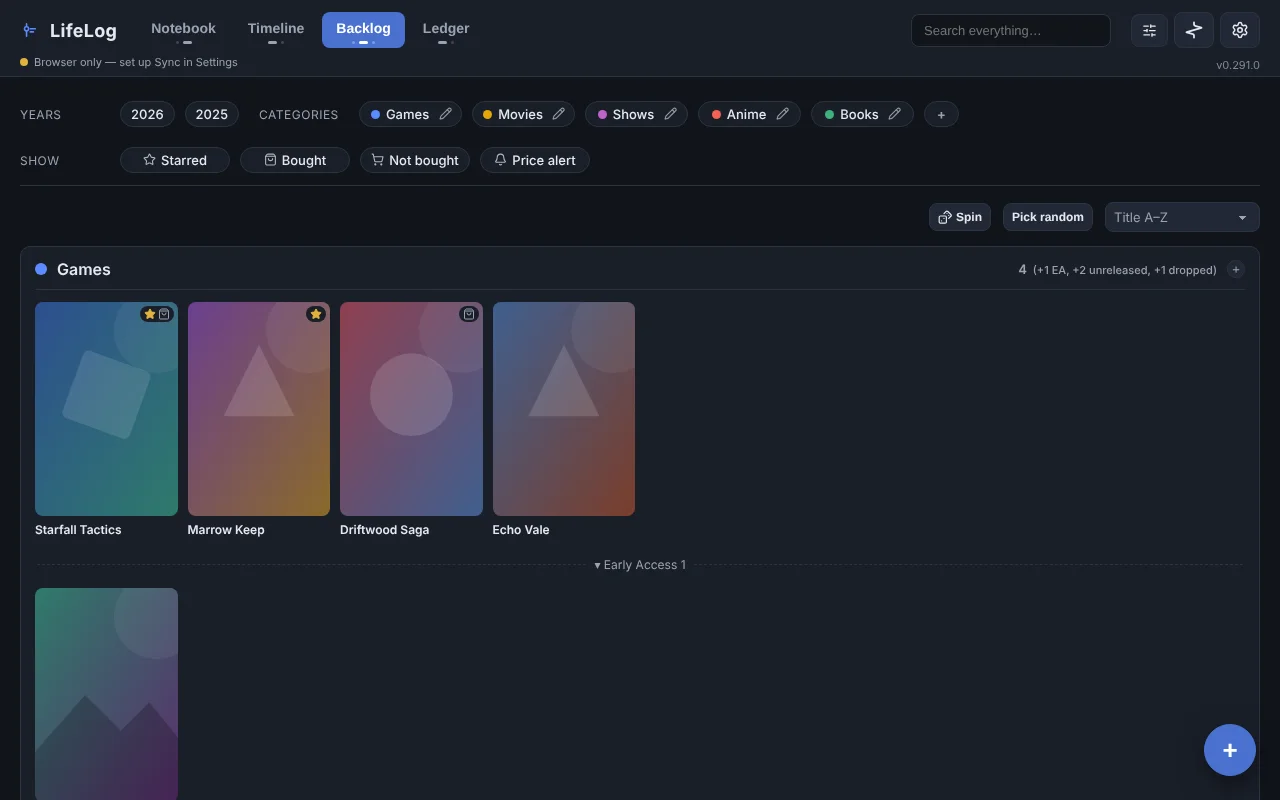
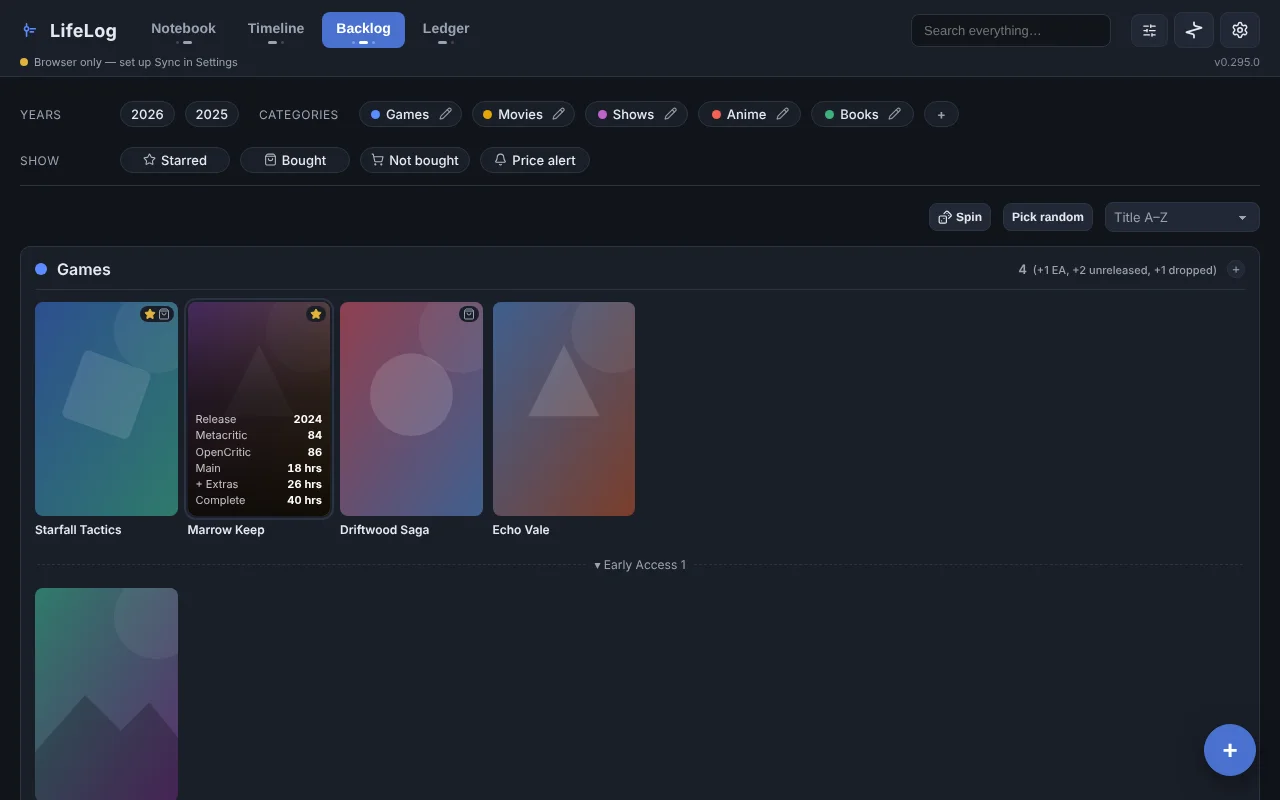
0.295.0: cover hover details, search covers and status, Open on suggestions you already have
On a computer, hovering a cover in the Covers layout shows its release,
scores, How Long to Beat times or length, and the price if not bought.
Search rows for Timeline and Backlog carry their cover, status tags and
starred/bought icons. Add entry and Add to backlog offer Open on a
suggestion you already have.

Claude-Session: https://claude.ai/code/session_01CFeKrmm4BBd86JVxtxF91o

Changed region(s): [[0.125, 0.375, 0.2812, 0.6562], [0.9375, 0.0625, 1.0, 0.0938]]

diff --git a/index.html b/index.html
@@ -5,7 +5,7 @@
   <meta http-equiv="Content-Security-Policy" content="default-src 'self'; script-src 'self'; style-src 'self'; img-src 'self' data: blob: https:; connect-src 'self' https: http://localhost:* http://127.0.0.1:*; font-src 'self'; object-src 'none'; frame-src 'none'; base-uri 'self'; form-action 'self'; manifest-src 'self'; worker-src 'self'" />
   <meta name="viewport" content="width=device-width, initial-scale=1.0" />
   <title>LifeLog</title>
-  <link rel="stylesheet" href="src/styles.css?v=0.294.0" />
+  <link rel="stylesheet" href="src/styles.css?v=0.295.0" />
   <link rel="manifest" href="manifest.json" />
   <meta name="theme-color" content="#11141a" />
   <link rel="icon" href="icon.svg" type="image/svg+xml" />
@@ -2310,38 +2310,38 @@
     </div>
   </div>
 
-  <script defer src="src/errlog.js?v=0.294.0"></script>
-  <script defer src="src/headless.js?v=0.294.0"></script>
-  <script defer src="src/platform.js?v=0.294.0"></script>
-  <script defer src="src/icons.js?v=0.294.0"></script>
-  <script defer src="src/jobs.js?v=0.294.0"></script>
-  <script defer src="src/reconcile.js?v=0.294.0"></script>
-  <script defer src="src/qr.js?v=0.294.0"></script>
-  <script defer src="src/media.js?v=0.294.0"></script>
-  <script defer src="src/merge.js?v=0.294.0"></script>
-  <script defer src="src/storage.js?v=0.294.0"></script>
-  <script defer src="src/finance.js?v=0.294.0"></script>
-  <script defer src="src/settings.js?v=0.294.0"></script>
-  <script defer src="src/wheel.js?v=0.294.0"></script>
-  <script defer src="src/backlog.js?v=0.294.0"></script>
-  <script defer src="src/journal.js?v=0.294.0"></script>
-  <script defer src="src/markdown.js?v=0.294.0"></script>
-  <script defer src="src/notes.js?v=0.294.0"></script>
-  <script defer src="src/docimport.js?v=0.294.0"></script>
-  <script defer src="src/io.js?v=0.294.0"></script>
-  <script defer src="src/sync.js?v=0.294.0"></script>
-  <script defer src="src/habits.js?v=0.294.0"></script>
-  <script defer src="src/vendor/rough.js?v=0.294.0"></script>
-  <script defer src="src/boards.js?v=0.294.0"></script>
-  <script defer src="src/travel.js?v=0.294.0"></script>
-  <script defer src="src/recap.js?v=0.294.0"></script>
-  <script defer src="src/reminders.js?v=0.294.0"></script>
-  <script defer src="src/alerts.js?v=0.294.0"></script>
-  <script defer src="src/widgets.js?v=0.294.0"></script>
-  <script defer src="src/share.js?v=0.294.0"></script>
-  <script defer src="src/search.js?v=0.294.0"></script>
-  <script defer src="src/letterboxd.js?v=0.294.0"></script>
-  <script defer src="src/payments.js?v=0.294.0"></script>
-  <script defer src="src/app.js?v=0.294.0"></script>
+  <script defer src="src/errlog.js?v=0.295.0"></script>
+  <script defer src="src/headless.js?v=0.295.0"></script>
+  <script defer src="src/platform.js?v=0.295.0"></script>
+  <script defer src="src/icons.js?v=0.295.0"></script>
+  <script defer src="src/jobs.js?v=0.295.0"></script>
+  <script defer src="src/reconcile.js?v=0.295.0"></script>
+  <script defer src="src/qr.js?v=0.295.0"></script>
+  <script defer src="src/media.js?v=0.295.0"></script>
+  <script defer src="src/merge.js?v=0.295.0"></script>
+  <script defer src="src/storage.js?v=0.295.0"></script>
+  <script defer src="src/finance.js?v=0.295.0"></script>
+  <script defer src="src/settings.js?v=0.295.0"></script>
+  <script defer src="src/wheel.js?v=0.295.0"></script>
+  <script defer src="src/backlog.js?v=0.295.0"></script>
+  <script defer src="src/journal.js?v=0.295.0"></script>
+  <script defer src="src/markdown.js?v=0.295.0"></script>
+  <script defer src="src/notes.js?v=0.295.0"></script>
+  <script defer src="src/docimport.js?v=0.295.0"></script>
+  <script defer src="src/io.js?v=0.295.0"></script>
+  <script defer src="src/sync.js?v=0.295.0"></script>
+  <script defer src="src/habits.js?v=0.295.0"></script>
+  <script defer src="src/vendor/rough.js?v=0.295.0"></script>
+  <script defer src="src/boards.js?v=0.295.0"></script>
+  <script defer src="src/travel.js?v=0.295.0"></script>
+  <script defer src="src/recap.js?v=0.295.0"></script>
+  <script defer src="src/reminders.js?v=0.295.0"></script>
+  <script defer src="src/alerts.js?v=0.295.0"></script>
+  <script defer src="src/widgets.js?v=0.295.0"></script>
+  <script defer src="src/share.js?v=0.295.0"></script>
+  <script defer src="src/search.js?v=0.295.0"></script>
+  <script defer src="src/letterboxd.js?v=0.295.0"></script>
+  <script defer src="src/payments.js?v=0.295.0"></script>
+  <script defer src="src/app.js?v=0.295.0"></script>
 </body>
 </html>

diff --git a/tools/readme-shots.js b/tools/readme-shots.js
@@ -103,7 +103,7 @@ function buildData() {
   });
   const backlog = [
     item("Starfall Tactics", "Games", { priority: 1, summary: "A turn-based campaign across a collapsing star system: hire a crew, hold the line, and choose which worlds to save.", notes: "Friends say the second act is the best part.", bought: true, length: "35 hrs", externalRating: "88 Metacritic", genres: ["Strategy", "RPG"], releaseDate: "2025-03-14", releasePrecision: "day", releaseStatus: "released" }),
-    item("Marrow Keep", "Games", { priority: 1, length: "18 hrs", externalRating: "84 Metacritic", releaseDate: "2024-11-02", releasePrecision: "day", releaseStatus: "released" }),
+    item("Marrow Keep", "Games", { priority: 1, length: "18 hrs", externalRating: "84 Metacritic", hltb: { story: 1080, extras: 1560, complete: 2400 }, reviews: { opencritic: { score: 86 }, metauser: { score: 79 } }, releaseDate: "2024-11-02", releasePrecision: "day", releaseStatus: "released" }),
     item("Driftwood Saga", "Games", { bought: true, length: "60 hrs", releaseDate: "2023-06-20", releasePrecision: "day", releaseStatus: "released" }),
     item("Cobalt Run", "Games", { earlyAccess: true, length: "12 hrs", releaseDate: "2025-08-01", releasePrecision: "day", releaseStatus: "released" }),
     item("Lantern Hollow II", "Games", { releaseDate: soon(9), releasePrecision: "day", releaseStatus: "upcoming" }),
@@ -249,7 +249,9 @@ const SHOTS = [
   { name: "timeline-calendar", ui: { view: "timeline", timelineMode: "entries" }, visual: { timelineLayout: "calendar" } },
   { name: "stats", ui: { view: "timeline", timelineMode: "stats" } },
   { name: "backlog", ui: { view: "backlog", backlogMode: "entries" } },
-  { name: "backlog-covers", ui: { view: "backlog", backlogMode: "entries" }, visual: { backlogLayout: "covers" } },
+  // A computer's shot holds the pointer over a cover to show its details.
+  { name: "backlog-covers", ui: { view: "backlog", backlogMode: "entries" }, visual: { backlogLayout: "covers" },
+    go: async (page, tag) => { if (tag === "desktop") await page.hover('.bl-tile:has-text("Marrow Keep") .bl-tile-art'); } },
   { name: "next-releases", ui: { view: "backlog", backlogMode: "upcoming" }, visual: { outTodaySheet: "hide" } },
   { name: "item-sheet", ui: { view: "backlog", backlogMode: "entries" },
     noScroll: true, go: async (page) => { await page.click('.backlog-item-rich:has-text("Starfall Tactics") .bl-body'); } },

diff --git a/src/app.js b/src/app.js
@@ -164,7 +164,7 @@
   // hideWidgets keeps notes and to-dos out of the widgets while locked.
   const DEFAULT_PRIVACY = { enabled: false, pinHash: null, pinSalt: null, pinKdf: null, credentialId: null, graceMinutes: 0, lastUnlockAt: 0,
     relockMinutes: 5, fails: 0, lockedUntil: 0, bioOnOpen: true, privacyScreen: false, hideWidgets: false };
-  const APP_VERSION = "0.294.0"; // bump with each shipped change so it's visible in Settings
+  const APP_VERSION = "0.295.0"; // bump with each shipped change so it's visible in Settings
 
   const CATEGORY_PALETTE = ["#e23b3b", "#e2723b", "#e2b23b", "#9fe23b", "#3be25a", "#3bb2e2", "#5b8cff", "#723be2", "#b23be2", "#e23b72", "#7a8a99"];
 

diff --git a/sw.js b/sw.js
@@ -12,7 +12,7 @@
 // touched — intercepting those and falling back to index.html on failure
 // previously turned a real network/CORS error into a fake 200 OK full of HTML,
 // masking the actual failure from the app's own error handling.
-const CACHE = "lifelog-v251";
+const CACHE = "lifelog-v252";
 // Note: lifelog.json is intentionally NOT precached — it isn't deployed (your
 // data is private). The app fetches it at runtime with a graceful fallback.
 const ASSETS = [

diff --git a/DONE.md b/DONE.md
@@ -19,7 +19,7 @@ Every release that adds a feature adds its line here in the same commit.
 - Reorder tabs and modes, and choose the mode a tab opens on (0.188.0)
 - Remembers the open tab and scroll position across reloads (0.9.4)
 - The + menu adds anything from any tab (0.229.0)
-- One search across everything, with the tab's own filter kept (0.251.0); In progress is its own group (0.281.0)
+- One search across everything, with the tab's own filter kept (0.251.0); In progress is its own group (0.281.0); Timeline and Backlog results show their cover, status tags, and starred/bought icons (0.295.0)
 - Keyboard shortcuts: N to add, number keys for tabs, Shift+number for a second mode, / to search, ? for the list (0.86.0, 0.127.0, 0.188.0)
 - Lists update in place, move instead of jumping, and rows fade in and out (0.129.0 to 0.139.0)
 - Sheets fade and rise in, swipe down to close, and keep focus where it was (0.209.0, 0.222.0, 0.223.0)
@@ -79,6 +79,8 @@ Every release that adds a feature adds its line here in the same commit.
 - Show filter: Starred, Bought, Not bought, Price alert, stacking (0.285.0, 0.286.0)
 - Pick random and Spin, scoped to the filters, with Bought only (0.82.0, 0.105.0, 0.110.0)
 - Covers layout under View, in every mode: cover art with marks for starred, bought and price alert (0.289.0, 0.290.0)
+- Hover a cover on a computer for its release, scores, How Long to Beat times or length, and price if not bought (0.295.0)
+- Open on a title suggestion you already have, from the Add sheets, instead of adding a second copy (0.295.0)
 - How long an item has sat there (0.82.0)
 - Game descriptions, Steam's own for Steam games (0.101.0)
 - GG.deals retail price on Steam games (0.18.0, 0.67.0)

diff --git a/README.md b/README.md
@@ -79,6 +79,8 @@ An entry has a rating, notes, cover art, genres, a length and when you
 started it. With big cover art, the category is a label on the cover and a
 book's author sits under the title. What you're in the middle of sits in the
 In progress card at the top; ✓ there logs it with the months it took.
+Typing a title you already have, in Add entry or Add to backlog, offers
+Open on it to go to its card instead of adding it twice.
 
 <table><tr>
 <td><img src="docs/screenshots/timeline-desktop.webp" alt="The Timeline on a computer" width="620"></td>
@@ -127,7 +129,9 @@ Timeline.
 ### Covers
 
 View → Layout → Covers draws any Backlog mode as a wall of cover art, with
-marks for starred, bought and price alert. A cover opens like a row.
+marks for starred, bought and price alert. A cover opens like a row. On a
+computer, holding the pointer over one shows its release, scores, How Long
+to Beat times and, if it isn't bought, its price.
 
 <table><tr>
 <td><img src="docs/screenshots/backlog-covers-desktop.webp" alt="Backlog covers on a computer" width="620"></td>
@@ -207,7 +211,9 @@ hours and reviews when you add your own Places key.
 ## Search
 
 One box over everything: entries, backlog, notes, habits, boards, expenses,
-trips, places and Settings pages, grouped by tab. Filter on a group narrows
+trips, places and Settings pages, grouped by tab. Timeline and Backlog
+results show their cover, where they stand (Completed, In progress,
+Dropped…) and a star or bag for starred and bought. Filter on a group narrows
 that tab instead, for bulk work.
 
 <table><tr>

diff --git a/NOTES.md b/NOTES.md
@@ -16,6 +16,23 @@ what was decided against and why.
 
 ---
 
+- **Cover hover details, search status, Open on suggestions (0.295.0).**
+  The hover panel (`appendTileInfo` in backlog.js, also called by the
+  Timeline's `entryTile`) is built only when `(hover: hover) and
+  (pointer: fine)` matches, so a phone builds nothing for it, and shown
+  by CSS on `.bl-tile:hover`. It sits under the star/bag marks and has
+  `pointer-events: none`, so clicks and the bulk checkbox still reach the
+  tile. Fixed black and white like the sheet's times strip, since it is
+  on the art, not the theme. The price is a `.bl-price[data-appid]` span,
+  so `applyCachedPrices` fills it with the list rows' text; its row hides
+  (`:has(.bl-price:empty)`) until a price lands or when there is no
+  GG.deals key. Daniel kept the "(low $x)" part even though it wraps on a
+  narrow cover. In search, starred and bought are icons on the right
+  (his call), the rest are tags. The suggestion's Open closes both sheets
+  and opens the item through `openExisting` in journal.js; a Timeline
+  match opens the latest entry with that title. No data changed, so the
+  bridge needed nothing: it already reads every field the panel shows.
+
 - **Category on big covers, small month rows one line again (0.294.0).**
   After 0.293.0 Daniel asked for the chip as a label across the foot of a
   big cover (so the row is the cover's height, and the column is the

diff --git a/CHANGELOG.md b/CHANGELOG.md
@@ -4,6 +4,24 @@ All notable changes to LifeLog are documented here. The version number
 always matches `APP_VERSION` in `src/app.js`, shown as "LifeLog vX.Y.Z" at
 the bottom of Settings.
 
+## [0.295.0] - 2026-10-30
+
+### Added
+- **Hover a cover for its details.** On a computer, in the Covers layout
+  (Backlog and Timeline), holding the pointer over a cover shows its
+  release, its scores (the source's rating, OpenCritic, Metacritic users),
+  How Long to Beat times or its length, and, for a game you haven't
+  bought, the price and your price alert. Phones are unchanged.
+- **Open what you already have.** Typing a title in Add entry or Add to
+  backlog, a suggestion you already have gets an Open button that takes
+  you to its card instead of adding a second copy.
+
+### Changed
+- **Search shows covers and status.** Timeline and Backlog results carry
+  their cover, a star and bag icon on the right for starred and bought,
+  and tags for Completed (with its stars), In progress, Dropped, Early
+  Access and how far a show has run.
+
 ## [0.294.0] - 2026-10-30
 
 ### Changed
